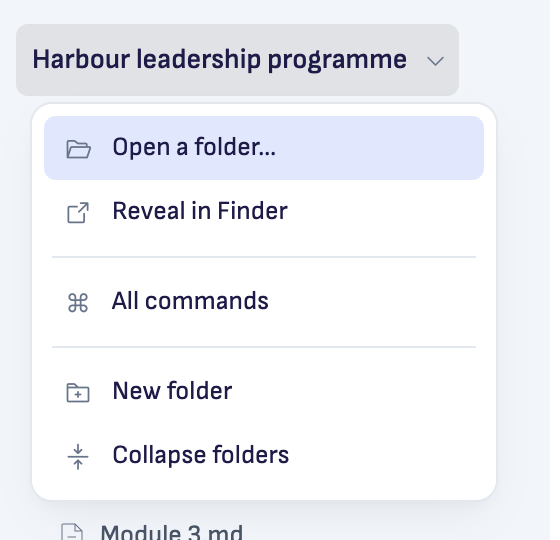
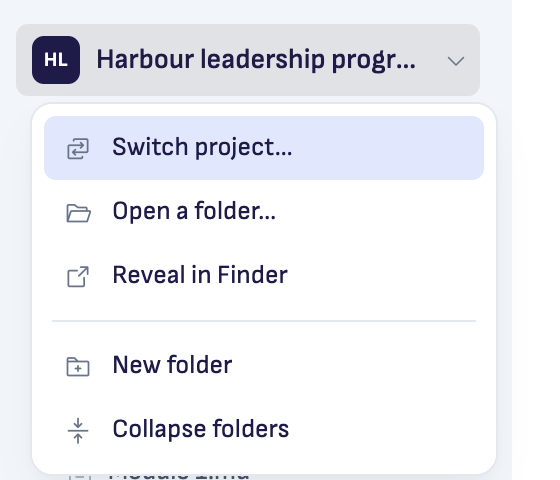
fix(sprint-132): the Experience lead's screenshot review, merge 1
- The project's mark: its initials in a 24 square of ink before the name (018).
- Tabs as wide as their names, with no 120 floor (the prototype); geometry checks <= 200.
- An empty desk keeps its sheet and the + in its strip; no letterpress (018, 019).
- Only Ritemark's six take a spot in the places row; every other place lives in More,
  which takes the chosen fill while one of them is open (002).
- The Agent Library's section headers in ink with no band; dark was unreadable.
- The project's menu: Switch project… first; All commands out (it stays on ⇧⌘P).
- The open tree row: the desk's colour, radius 4, no border.
- .flow.json files get the flow icon (Phosphor thin, both themes).
- The extension in muted ink needs a resource-label patch: moved to step 2 (release plan).
- Tests: 75 VS Code unit tests (Ritemark, EditorGroupsService, EditorPart) and the
  extension's head test pass; evidence and screenshots updated.

diff --git a/extensions/ritemark/src/views/projectHeadCommands.test.ts b/extensions/ritemark/src/views/projectHeadCommands.test.ts
@@ -109,7 +109,7 @@ test('the head\'s words are Ritemark\'s', () => {
   assert.equal(title('ritemark.projectHead.openFolder'), 'Open a folder…');
   assert.equal(title('ritemark.projectHead.revealInFinder'), 'Reveal in Finder');
   assert.equal(title('ritemark.projectHead.revealInFileExplorer'), 'Reveal in File Explorer');
-  assert.equal(title('ritemark.projectHead.allCommands'), 'All commands');
+  assert.equal(title('ritemark.projectHead.switchProject'), 'Switch project…');
   assert.equal(title('ritemark.projectHead.newText'), 'Text');
   assert.equal(title('ritemark.projectHead.newTable'), 'Table (CSV data)');
 });
@@ -127,7 +127,7 @@ test('the 2.0 defaults', () => {
   assert.equal(configurationDefaults['workbench.activityBar.location'], 'top');
   assert.equal(configurationDefaults['breadcrumbs.enabled'], false);
   assert.equal(configurationDefaults['workbench.editor.tabSizing'], 'fixed');
-  assert.equal(configurationDefaults['workbench.editor.tabSizingFixedMinWidth'], 120);
+  assert.equal(configurationDefaults['workbench.editor.tabSizingFixedMinWidth'], 38); // no floor: tabs are as wide as their names (the stylesheet)
   assert.equal(configurationDefaults['workbench.editor.tabSizingFixedMaxWidth'], 200);
   assert.equal(configurationDefaults['workbench.editor.pinnedTabSizing'], 'compact');
   assert.deepEqual(configurationDefaults['files.exclude'], { '**/.ritemark': true });

diff --git a/extensions/ritemark/src/views/AgentLibraryViewProvider.ts b/extensions/ritemark/src/views/AgentLibraryViewProvider.ts
@@ -583,14 +583,13 @@ export class AgentLibraryViewProvider implements vscode.WebviewViewProvider {
       padding: 10px 12px 10px 14px;
       font-size: 11px; font-weight: 600;
       text-transform: uppercase;
-      letter-spacing: 0.6px;
-      color: var(--r-ink-muted);
-      background: var(--r-surface-muted);
+      letter-spacing: 0.5px;
+      /* Ritemark 2.0 (Experience 31): a column group, in ink, with no band; the count in muted ink */
+      color: var(--r-ink-strong);
+      background: transparent;
       user-select: none;
       cursor: pointer;
-      transition: color 0.1s;
     }
-    .section-header:hover { color: var(--r-ink-strong); }
     .section-title { display: inline-flex; align-items: center; gap: 6px; }
     .section-caret {
       width: 10px; height: 10px; flex-shrink: 0;
@@ -598,7 +597,7 @@ export class AgentLibraryViewProvider implements vscode.WebviewViewProvider {
     }
     .section-caret.collapsed { transform: rotate(-90deg); }
     .section-header-meta { display: flex; align-items: center; gap: 8px; }
-    .section-count { font-size: 11px; font-weight: 400; color: var(--r-ink-faint); }
+    .section-count { font-size: 11px; font-weight: 400; color: var(--r-ink-muted); }
     .section-add-btn {
       width: 18px; height: 18px;
       display: inline-flex; align-items: center; justify-content: center;

diff --git a/extensions/ritemark/src/views/projectHeadCommands.ts b/extensions/ritemark/src/views/projectHeadCommands.ts
@@ -21,12 +21,12 @@ export interface ProjectHeadCommand {
   readonly onFolder?: true;
 }
 
-/** The project's menu, behind the chevron: Open a folder, Reveal, All commands and the folder tools. */
+/** The project's menu, behind the chevron: project things only (Switch project, Open a folder, Reveal) and the folder tools. */
 export const PROJECT_MENU_COMMANDS: readonly ProjectHeadCommand[] = [
+  { id: 'ritemark.projectHead.switchProject', runs: 'workbench.action.openRecent' },
   { id: 'ritemark.projectHead.openFolder', runs: 'workbench.action.files.openFolder' },
   { id: 'ritemark.projectHead.revealInFinder', runs: 'revealFileInOS', onFolder: true },
   { id: 'ritemark.projectHead.revealInFileExplorer', runs: 'revealFileInOS', onFolder: true },
-  { id: 'ritemark.projectHead.allCommands', runs: 'workbench.action.showCommands' },
   { id: 'ritemark.projectHead.newFolder', runs: 'explorer.newFolder' },
   { id: 'ritemark.projectHead.collapseFolders', runs: 'workbench.files.action.collapseExplorerFolders' },
 ];

diff --git a/docs/development/releases/v2.0.0/sprint-132-surfaces-and-frame/qa-evidence.md b/docs/development/releases/v2.0.0/sprint-132-surfaces-and-frame/qa-evidence.md
@@ -19,7 +19,7 @@ Status: **Pass**, **Partial** (what was not run is named), **Open** (not run yet
 
 | Scenario | Status | Evidence and notes |
 | --- | --- | --- |
-| S1 A fresh start | Pass | Fresh profile: no title row, Documents open, the left column 256 and the AI 400, the row Home, Documents, Tasks, Browser, Agents, Transcribe, More ([`qa/s1-fresh-start.png`](qa/s1-fresh-start.png)). A fresh window first opened on Search; fixed in 1854d997 (Documents stays a place while its tree is not registered yet). |
+| S1 A fresh start | Pass | With no tab open the desk keeps its white sheet (256–1040, from 44 to 8 above the status bar) and its + and shows no letterpress ([`qa/empty-desk.png`](qa/empty-desk.png)). Fresh profile: no title row, Documents open, the left column 256 and the AI 400, the row Home, Documents, Tasks, Browser, Agents, Transcribe, More ([`qa/s1-fresh-start.png`](qa/s1-fresh-start.png)). A fresh window first opened on Search; fixed in 1854d997 (Documents stays a place while its tree is not registered yet). |
 | S2 Two desks | Pass | Desks 8 apart, each with its own strip and tabs from 16 (geometry, two desks). The 1px separator line Jarmo saw in the gap is gone ([`qa/s2-desk-gap.png`](qa/s2-desk-gap.png)); geometry now checks it. |
 | S3 Columns hidden | Pass | Geometry with the left column hidden, and with both hidden: the desk 8 from the edges, the toggles on the desk's strip. |
 | S4 Moving the window | Open (Jarmo) | Needs a real pointer on the window: a synthetic press cannot move a window by its drag region. |
@@ -30,13 +30,13 @@ Status: **Pass**, **Partial** (what was not run is named), **Open** (not run yet
 | S13 Zoom across a restart | Pass | Zoomed to 1.2, quit and relaunched: zoom 1.2 came back, the lights and toggles at the same pixels as at zoom 1.0 ([`qa/s13-zoom-after-restart.png`](qa/s13-zoom-after-restart.png)). |
 | S14 Only the AI | Pass | After a fresh start, restarts and the v1.14 profile (S45), the AI column shows only the AI's sheet with its chat rail: no VS Code title row, no row of icons ([`qa/s1-fresh-start.png`](qa/s1-fresh-start.png)). |
 | S15 A view dragged to the AI column | Pass | Search moved into the AI column (View: Move View → New Secondary Side Bar Entry, the same move as a drop) went straight back to the left column; More lists it and opens it there; the AI column kept only the AI. Search then sits last in More rather than second as drawn. |
-| S16 The row | Pass | Fresh profile, as S1; places 34 apart from 8, the chosen one filled (geometry). |
+| S16 The row | Pass | Fresh profile, as S1; places 34 apart from 8, the chosen one filled (geometry). Only Ritemark's six take a spot: with Search open (it lives in More) the row stays the six and More, and More takes the chosen fill ([`qa/s16-more-chosen.png`](qa/s16-more-chosen.png)); a v1.14 profile's extra place no longer pushes More past the column. |
 | S17 What does not fit | Pass | More lists Copilot Chat first, then Search, File changes and Extensions, as experiences/home frame 4 draws it. |
 | S18 Tasks opens the board | Pass | With a document in front, a click on Tasks brings the Task board forward, from another place and when Tasks is already chosen, also after a reload with the pinned board restored but not yet shown. Two fixes: the places row on top no longer told the extension about a click on the open place (018 now runs `ritemark.placeClickedAgain`), and a pinned restored board could not be replaced, which opened a second board (the extension now shows the restored one). |
 | S19 Reordering | Pass | Transcribe dragged before Browser (an HTML5 drag through CDP's drag interception) stayed there after a restart: Home, Documents, Tasks, Transcribe, Browser, Agents, More. |
 | S20 Copilot Chat installed | Partial | Copilot Chat in More opens as a tab on the desk. A second click (it should show the same tab) not checked yet. |
 | S21 Copilot Chat not installed | Open (build) | The dev build carries a dev-only Copilot extension, so More always lists Copilot Chat there; checked on the production build after the merge. |
-| S22 Readable tabs | Pass | Each tab is its name plus the kit's padding (34 before the name, 12 after; 32 after on the chosen tab, for its close button), at least 120 and at most 200: Kickoff notes.md 142, Proposal.md (chosen) 135, Brief.md 120 ([`qa/s22-tab-row.png`](qa/s22-tab-row.png)). Fixed on the way: core's transparent 1px tab border made every tab 1 wider, and the chosen tab's close button sat 3–5 off the kit (its glyph now centred 16 from the edge). Names end equally far from the next tab except where 120 is wider than a short name, as the kit's minimum implies. |
+| S22 Readable tabs | Pass | Each tab is its name plus the kit's padding (34 before the name, 12 after; 32 after on the chosen tab, for its close button), at most 200, with no floor (the prototype; the Experience lead's review): Brief.md 93, Module 1.md 118, Proposal.md (chosen) 135 ([`qa/review-light.png`](qa/review-light.png)). Fixed on the way: core's transparent 1px tab border made every tab 1 wider, and the chosen tab's close button sat 3–5 off the kit (its glyph now centred 16 from the edge). |
 | S23 Pointing at a tab | Pass | Under the pointer a tab that is not chosen fills softly and its close button takes the icon's place exactly (both centred 20 from the tab's left); nothing moves. The tooltip shows the path inside the project ("Modules/Module 1.md"; "Brief.md" at the top level). |
 | S24 A new tab | Partial | The + menu matches the drawing (Text, Table, Web page, Terminal). Terminal from it checked (S28); the other three not run yet. |
 | S25 Many tabs | Pass | 13 documents and the pinned board: the tabs used longest ago fold into "N ⌄" before the +; no tab narrower than 120 (121); the row never scrolls. Desk 880 (both columns): 9 fold; desk 1180 (AI hidden): 8; full width: 7. With both columns hidden some still fold, because these 13 names (up to "Workshop outline for spring.md") need about 2,000 wide; the scenario's "none" holds for shorter names. Tabs show in most-recently-used order and stop at the first that does not fit, so a tab used longer ago never shows while a newer one is folded. |
@@ -49,8 +49,8 @@ Status: **Pass**, **Partial** (what was not run is named), **Open** (not run yet
 | S32 No terminal at start | Pass | No terminal opens on start; the panel stays hidden after restarts. |
 | S33 Terminals across a restart | Pass | After a restart, all four terminals came back as tabs; no panel. |
 | S34 A pinned Task board tab | Pass | In the app, with the board pinned: ⌘W leaves it and brings the next tab forward; ⌘K ⇧⌘↵ (Unpin) leaves it pinned; ⌃⌘→ leaves it on its desk; ⌘K ⇧⌘← on a document beside it leaves the document behind it; a slip of my palette driver closed every other tab and the emptied desk (most likely Close All Editors) and left only the board; Close all is confirmed by the unit test. `ritemarkPermanentTabs.test.ts` (5 tests) covers the same rules plus a tab opened or dragged to the front, Close others and disposal; it found that a tab *opened* at the front went in front of the board (fixed). Minor: ⌃⌘→ still opens an empty desk to the right before the refused move (listed under Open findings). |
-| S35 The head on Documents | Pass | New at 136, Search at 168, Documents at 214, the tree from 236, the name centred at 110 (geometry). The tree at 8 with 16 per level (icon 16 and 32, label 38 and 54), as the Experience lead's answer 6 asks. |
-| S36 The project's menu and New | Pass | Both are Ritemark menus at 16, 4 under their row, 232 wide, with icons and hairlines ([`qa/s36-project-menu.png`](qa/s36-project-menu.png), [`qa/s36-new-menu.png`](qa/s36-new-menu.png)). All commands, New folder, Collapse folders, Text, Table (CSV data), Flow, Other file… and Folder each worked. Open a folder… and Reveal in Finder were not run: they open a system dialog and Finder in front of Jarmo's work. Reveal's wiring is unit-tested. |
+| S35 The head on Documents | Pass | The project's mark ("HL", a 24 square of ink at 16, 98) before its name at 48; New at 136, Search at 168, Documents at 214, the tree from 236, the name centred at 110 (geometry). The tree at 8 with 16 per level (icon 16 and 32, label 38 and 54), as the Experience lead's answer 6 asks. |
+| S36 The project's menu and New | Pass | Both are Ritemark menus at 16, 4 under their row, 232 wide, with icons and hairlines. The project's menu (after the Experience lead's review): Switch project… (opens the recent folders), Open a folder…, Reveal in Finder, then New folder and Collapse folders ([`qa/s36-project-menu.png`](qa/s36-project-menu.png), [`qa/s36-new-menu.png`](qa/s36-new-menu.png)). Switch project…, New folder, Collapse folders, Text, Table (CSV data), Flow, Other file… and Folder each worked. Open a folder… and Reveal in Finder were not run: they open a system dialog and Finder in front of Jarmo's work. Reveal's wiring is unit-tested. |
 | S37 You | Partial | The menu matches experiences/settings frame 1: "Settings ⌘," and Help. ⌘, opens Ritemark Settings (Jarmo's answer of 17 October). By keyboard: You is a button with `aria-haspopup=menu`; Enter and Space open the menu, ↑ ↓ move, Enter on Settings opens Ritemark Settings, Escape closes it and returns focus to You (it did not before; fixed for every Ritemark menu). Not run: Help (it opens ritemark.app in the system browser in front of Jarmo's work) and VoiceOver (it speaks aloud); both for Jarmo's pass. |
 | S38 Ritemark's menus | Partial | More, You, the +, "N ⌄" and the head's menus are Ritemark menus (S17, S24, S26, S27, S36, S37). The macOS menu bar staying native is for Jarmo's pass (the app cannot read native menus here without accessibility access); the Windows application menu is for the Windows round. |
 | S44 The inventory | Partial | The window section, which this sprint moves, walked row by row: Home; the file list on Documents; the + (Text, Table, Web page, Terminal); Search under New; New file and folder in New; open editors as tabs; Source control (File changes) and Extensions from More; Terminal from the + and ⌃`; All commands in the project's menu; Settings in You; one toggle per side; the breadcrumb and the remote and problems items gone; the status bar with notifications, Report AI issue, AI Ready and the word count. The editor, the other kinds of file and the AI are untouched by this sprint and were used throughout the QA (Markdown, CSV, a flow, the Task board, a web page, the AI's sheet); a row-by-row walk of those sections is still to do. Not checkable here: the macOS menu bar (Jarmo's pass). Note: File changes opens with VS Code's head, "Source Control". |
@@ -70,6 +70,7 @@ Status: **Pass**, **Partial** (what was not run is named), **Open** (not run yet
 - Updating from v1.14 reset a hand-chosen theme: the extension re-applied its Sprint 52 theme set-up whenever the version changed ("1.14.0-0" in the shipped app, so every update). It now runs once per profile (S45, R16).
 - A place of another extension new to a v1.14 profile went in among Ritemark's six (a saved place carries no order); it now goes after them (S45, R5).
 - The Agents place's head read "Agents: Agent Library"; its view is called Agents too.
+- The Experience lead's screenshot review (17 October): the project's mark was missing; tabs had a 120 floor; an empty desk lost its sheet and + and showed the letterpress; another extension's place could push More past the column; the Agent Library's section header was unreadable in dark ([`qa/agents-dark.png`](qa/agents-dark.png)); the project's menu lacked Switch project… and held All commands; the open tree row had a border and a larger radius; `.flow.json` had the JSON icon. All fixed; the extension in muted ink moved to step 2.
 - A tab opened at the front of the row (dropped there, or dragged from the other desk) went in front of a pinned Task board tab (R9); found by the unit test, fixed in `editorGroupView.ts`.
 
 ## Open findings

diff --git a/docs/development/releases/v2.0.0/sprint-132-surfaces-and-frame/sprint-plan.md b/docs/development/releases/v2.0.0/sprint-132-surfaces-and-frame/sprint-plan.md
@@ -99,6 +99,7 @@ Modal dialogs, Flows and the Agent Library wait for their drawings. If those com
   - the places sit 34 apart from 8, as the kit's script lays them out.
 - **2026-10-17, during Phase 4 (engineering):** the terminal shortcut is also bound by physical key (`ctrl+[Backquote]`). With an Estonian or other non-US layout, "`" is not a plain key, so the character binding alone never fires.
 - **2026-10-17, during Phase 6 (Jarmo, through the Experience lead):** ⌘, (Ctrl+, on Windows) opens Ritemark's settings page ("Ritemark settins"), and You shows "Settings ⌘,", as experiences/settings frame 1 draws it. VS Code's own settings stay in All commands; the route behind Settings > Advanced comes with the Settings redesign.
+- **2026-10-17, during Phase 6 (the Experience lead's review of the screenshots):** fixed in merge 1: the project's mark (its initials in a 24 square of ink) before the name; tabs as wide as their names with no 120 floor (the prototype); an empty desk keeps its sheet and its + and shows no letterpress; in the places row only Ritemark's six take a spot, every other place lives in More (which takes the chosen fill while one of them is open); the Agent Library's section headers in ink with no band (dark was unreadable); the project's menu holds project things only, Switch project… first and no All commands (it stays on ⇧⌘P and in the View menu); the open tree row is the desk's colour, radius 4, no border; `.flow.json` files get the flow icon. Moved to step 2: the extension in muted ink, which needs a patch to VS Code's resource label (release plan, step 2).
 - **2026-10-17, during Phase 6 (Experience lead's answers, confirmed by Jarmo):** the proof of concept at 4bca3078 is the reference for the frame, theme, sizes and behaviour, and the drawings for what it does not build (the Windows top, More's contents, the terminal's bar, the +'s words); file names keep their extension; the terminal bar's shell name is a plain label in step 1; a fresh window's left column is 248 and the AI's sheet 384 (with the 8 gaps: 256 and 400).
 
 ## Feature Flag Check

diff --git a/docs/development/releases/v2.0.0/sprint-132-surfaces-and-frame/spec.md b/docs/development/releases/v2.0.0/sprint-132-surfaces-and-frame/spec.md
@@ -98,7 +98,7 @@ Acceptance criteria:
 As a writer with many documents, I want tabs I can read, and a way to make a new one where the tabs are.
 
 Acceptance criteria:
-- The tabs sit in the desk's strip, 36 high, each as wide as its whole name from 120 to 200. The gaps between names are equal.
+- The tabs sit in the desk's strip, 36 high, each as wide as its whole name, up to 200 (no floor: the proof of concept, the Experience lead's review of 17 October). The gaps between names are equal.
 - Pointing at a tab shows its own shape in the frame's soft fill, and its close button takes the icon's place, so nothing moves.
 - The tab's tooltip shows the path inside the project, never the system path.
 - The + sits at the right end of the tab row, 18 in from the desk's edge. It opens Ritemark's menu leftward over the desk: Text, Table (CSV data), Web page, Terminal.
@@ -147,7 +147,7 @@ Acceptance criteria:
   - New and Search as rows;
   - Documents over the tree.
 - The positions follow the drawing's measurements (New at 136, Search at 168, Documents at 214, the tree from 236).
-- The chevron's menu holds Open a folder, Reveal in Finder (Reveal in File Explorer on Windows), All commands and the folder tools.
+- The chevron's menu holds project things only: Switch project…, Open a folder, Reveal in Finder (Reveal in File Explorer on Windows) and the folder tools. All commands stays on ⇧⌘P and in the View menu (the Experience lead's review, 17 October).
 - New lists every kind of new file Ritemark can make today. Search opens the search across files.
 - Ritemark's own `.ritemark` folder is out of the tree.
 - The words and menu entries come from the extension, so an extension change can change them.

diff --git a/docs/development/releases/v2.0.0/sprint-132-surfaces-and-frame/scenarios.md b/docs/development/releases/v2.0.0/sprint-132-surfaces-and-frame/scenarios.md
@@ -114,7 +114,7 @@ Then ⋯ does not list it, and nothing else about it shows.
 
 ### S22: Readable tabs
 Given four documents with names of different lengths
-Then each tab is as wide as its name (120 to 200), and the gaps between names are equal.
+Then each tab is as wide as its name (up to 200), and the gaps between names are equal.
 
 ### S23: Pointing at a tab
 When the person points at a tab that is not chosen
@@ -127,7 +127,7 @@ Then a menu opens leftward over the desk with Text, Table (CSV data), Web page a
 
 ### S25: Many tabs
 Given 13 documents open with both columns shown
-Then the tabs used longest ago fold into "N ⌄" before the +, no tab is narrower than 120, and the row does not scroll
+Then the tabs used longest ago fold into "N ⌄" before the +, no tab is narrower than its name, and the row does not scroll
 When the person hides the left column
 Then fewer tabs fold, and with both columns hidden none do.
 
@@ -194,7 +194,7 @@ Then the head shows the whole name with a chevron, then New and Search as rows, 
 
 ### S36: The project's menu and New
 When the person opens the chevron, then New
-Then the chevron offers Open a folder, Reveal in Finder (Reveal in File Explorer on Windows), All commands and the folder tools, and New lists every kind of new file Ritemark makes today; each works.
+Then the chevron offers Switch project…, Open a folder, Reveal in Finder (Reveal in File Explorer on Windows) and the folder tools, and New lists every kind of new file Ritemark makes today; each works.
 
 ## Feature: You and the menus (R11, R12)
 

diff --git a/docs/development/releases/v2.0.0/sprint-132-surfaces-and-frame/technical-plan.md b/docs/development/releases/v2.0.0/sprint-132-surfaces-and-frame/technical-plan.md
@@ -311,6 +311,10 @@ What the build needed beyond the workstreams' file lists, and why:
   `ritemark.placeClickedAgain` with the place's id, which the 1.x Activity Bar signalled by hiding and showing the side
   bar; the extension (`taskBoardHost.ts`) brings the Task board forward for Tasks (R5). `TaskBoardPanel.ts` shows a
   pinned board restored from the last session instead of replacing it, since R9 keeps it from being closed.
+- **The Experience lead's review (17 October):** 002's `compositeBar.ts` keeps the places row to Ritemark's six (others
+  live in More, which takes the chosen fill while one is open); 018 draws the project's mark (`ritemarkProjectInitials`
+  in `ritemarkProjectHead.ts`), keeps an empty desk's sheet and drops the letterpress; 019's `multiEditorTabsControl.ts`
+  keeps the tab row on an empty desk (its `visible` is always true), and tabs have no width floor.
 - **019** also changes `contrib/terminal/browser/terminalInstance.ts`: a terminal named "Terminal N" kept its name
   only until a reload, when the configured title source dropped it.
 - **002** also changes `explorerViewlet.ts`: the place is called Documents (R5), and it stays a place while its tree

diff --git a/docs/development/releases/v2.0.0/release-plan.md b/docs/development/releases/v2.0.0/release-plan.md
@@ -119,6 +119,7 @@ Ritemark 2.0 is one new Ritemark, with three things together:
 - **The usage-data choice is part of the welcome sheet**, and nothing is counted until the person says yes (Jarmo, 17 October). It replaces today's separate notice.
 - **Four analytics events:** welcome shown, AI signed in, project opened, first message sent. They go through Ritemark's PostHog (`src/analytics/posthog.ts`), are anonymous, and are sent only after a yes.
 - **People updating from 1.x see the welcome once** (Jarmo, 17 October). It shows them as already signed in; they confirm and pick a project.
+- **A file's extension in muted ink** in the tree and on tabs (the body colour on the chosen tab and the open row), as the framework draws it. It needs VS Code's resource label to render the name and the extension apart, a patch, so it waits for this step (the Experience lead's review of Sprint 132, 17 October).
 
 **Depends on**
 
